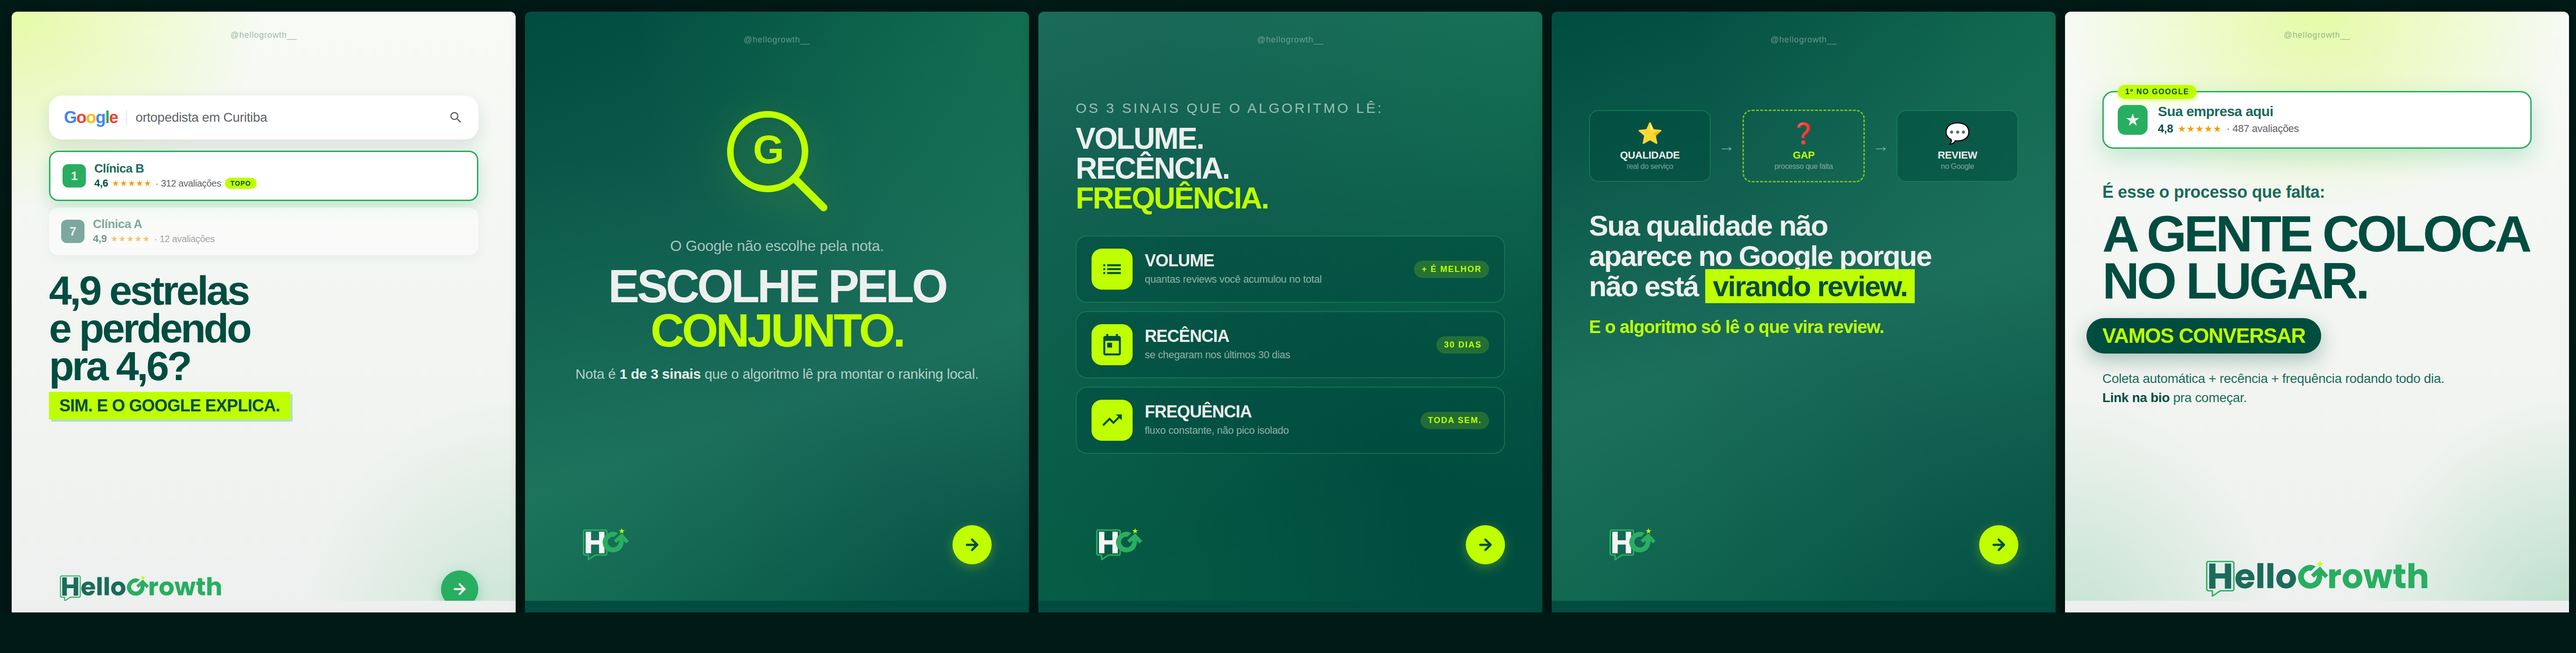
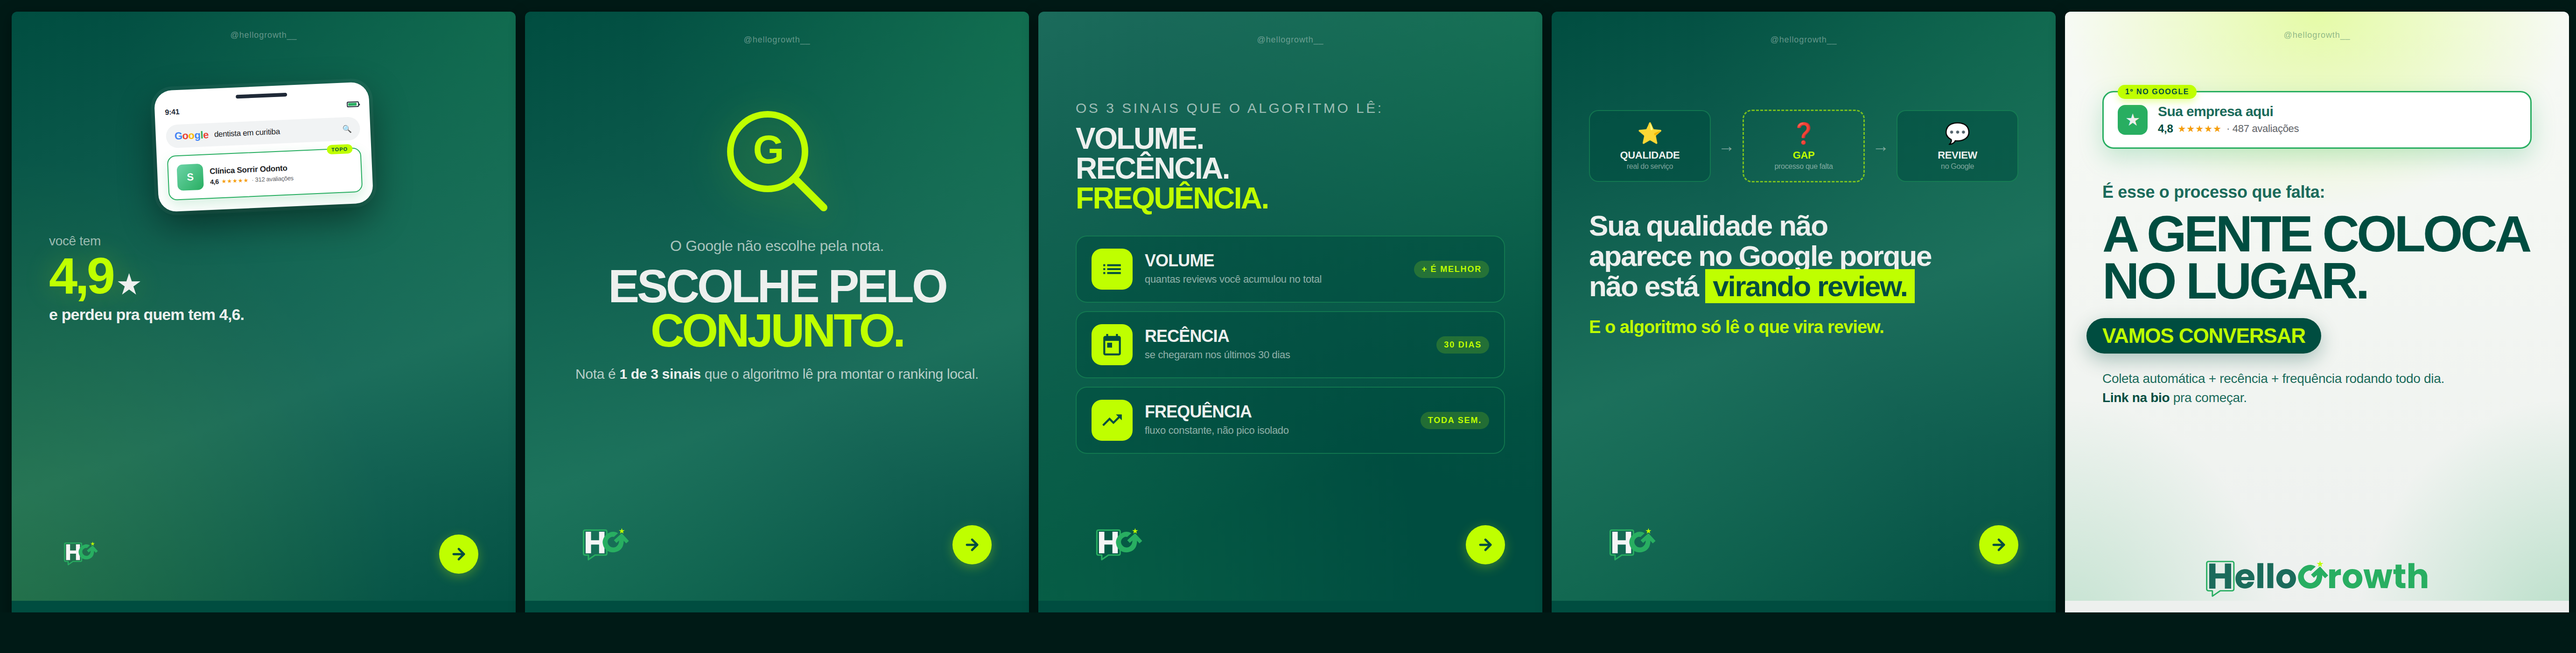
Nota Alta V3: cover redesigned with phone mockup, dentistry example
Switch the cover to a dark background and replace the busy two-card
ranking with a tilted phone mockup showing a single Google result
(Clínica Sorrir Odonto). Lead with a giant "4,9 ★" and "perdeu pra quem
tem 4,6" instead of the lime-pill pattern. Lift the footer so it never
touches the bottom edge.

https://claude.ai/code/session_01RXRUyw64HWp6pgoosUTsE4

Changed region(s): [[0.0, 0.0, 0.2181, 0.9521]]

diff --git a/squads/social-content/output/2026-06-05-nota-alta/slides-v2/slide-01.html b/squads/social-content/output/2026-06-05-nota-alta/slides-v2/slide-01.html
@@ -8,9 +8,9 @@
 * { margin: 0; padding: 0; box-sizing: border-box; }
 html, body {
   width: 1080px; height: 1350px;
-  background: #edf0ee;
+  background: #004d40;
   font-family: 'Inter', sans-serif;
-  color: #004d40;
+  color: #edf0ee;
   overflow: hidden;
   letter-spacing: -0.02em;
 }
@@ -18,173 +18,205 @@ html, body {
   width: 1080px; height: 1350px;
   position: relative;
   background:
-    radial-gradient(ellipse 900px 700px at top left, rgba(191,255,0,0.32) 0%, transparent 60%),
-    radial-gradient(ellipse 700px 800px at bottom right, rgba(40,174,97,0.18) 0%, transparent 65%),
-    linear-gradient(180deg, #f7faf5 0%, #edf0ee 100%);
+    radial-gradient(ellipse at top right, rgba(40,174,97,0.22) 0%, transparent 55%),
+    radial-gradient(ellipse at bottom left, rgba(191,255,0,0.10) 0%, transparent 55%),
+    linear-gradient(160deg, #004d40 0%, #1b6b5b 60%, #004d40 100%);
   padding: 80px 80px;
 }
 .handle {
   position: absolute; top: 40px; left: 50%; transform: translateX(-50%);
-  font-size: 18px; font-weight: 500; color: rgba(0,77,64,0.4);
+  font-size: 18px; font-weight: 500; color: rgba(237,240,238,0.4);
   letter-spacing: 0.05em;
 }
 
-/* Google search mockup */
-.google-search {
-  margin-top: 100px;
+/* Phone mockup */
+.phone-wrap {
+  margin: 80px auto 0;
+  width: 460px;
   background: #ffffff;
-  border-radius: 28px;
-  padding: 26px 32px;
-  display: flex; align-items: center; gap: 18px;
-  box-shadow: 0 14px 36px rgba(0,77,64,0.12);
+  border-radius: 38px;
+  padding: 24px 22px;
+  box-shadow:
+    0 30px 80px rgba(0,0,0,0.45),
+    0 0 0 8px rgba(255,255,255,0.05);
+  position: relative;
+  transform: rotate(-2.5deg);
 }
-.google-logo {
-  font-size: 36px; font-weight: 800; letter-spacing: -0.04em;
+.phone-notch {
+  position: absolute; top: 16px; left: 50%; transform: translateX(-50%);
+  width: 110px; height: 8px;
+  background: #1f2937; border-radius: 50px;
 }
-.google-logo .b { color: #4285F4; }
-.google-logo .r { color: #EA4335; }
-.google-logo .y { color: #FBBC04; }
-.google-logo .g { color: #34A853; }
-.search-input {
-  flex: 1;
-  font-size: 28px; font-weight: 500;
-  color: #5f6368;
-  border-left: 2px solid #e5e7eb;
-  padding-left: 18px;
+.phone-status {
+  display: flex; justify-content: space-between; align-items: center;
+  margin-top: 14px; margin-bottom: 18px;
+  font-size: 16px; font-weight: 700; color: #1f2937;
 }
-.search-icon { width: 32px; height: 32px; }
-.search-icon svg { width: 100%; height: 100%; fill: #5f6368; }
-
-/* GMB results */
-.gmb-results { margin-top: 24px; }
-.gmb-card {
-  background: #ffffff;
-  border-radius: 20px;
-  padding: 22px 26px;
-  margin-bottom: 14px;
-  display: flex; align-items: center; gap: 18px;
-  box-shadow: 0 6px 20px rgba(0,77,64,0.08);
+.battery {
+  display: inline-block;
+  width: 26px; height: 12px;
+  border: 2px solid #1f2937;
+  border-radius: 3px;
   position: relative;
 }
-.gmb-card.winner {
-  background: #ffffff;
-  border: 3px solid #28ae61;
-  box-shadow: 0 12px 32px rgba(40,174,97,0.25);
+.battery::before {
+  content: '';
+  position: absolute; right: -4px; top: 3px;
+  width: 2px; height: 4px;
+  background: #1f2937; border-radius: 1px;
 }
-.gmb-card.loser { opacity: 0.55; }
-.gmb-rank {
-  width: 50px; height: 50px;
-  background: #1b6b5b;
-  color: #edf0ee;
-  border-radius: 12px;
-  display: flex; align-items: center; justify-content: center;
-  font-size: 26px; font-weight: 900;
-}
-.gmb-card.winner .gmb-rank { background: #28ae61; }
-.gmb-info { flex: 1; }
-.gmb-name {
-  font-size: 26px; font-weight: 800;
-  color: #1b6b5b; line-height: 1; letter-spacing: -0.02em;
-}
-.gmb-meta {
-  display: flex; align-items: center; gap: 8px;
-  margin-top: 6px;
-  font-size: 20px; color: #5f6368; font-weight: 500;
-}
-.gmb-rating-num { font-weight: 800; color: #004d40; font-size: 22px; }
-.gmb-stars { color: #f59e0b; font-size: 18px; letter-spacing: 1px; }
-.tag-topo {
-  background: #bfff00;
-  color: #004d40;
-  font-size: 14px; font-weight: 800;
-  padding: 4px 12px; border-radius: 50px;
-  text-transform: uppercase; letter-spacing: 0.08em;
+.battery::after {
+  content: '';
+  position: absolute; left: 1px; top: 1px;
+  width: 18px; height: 6px;
+  background: #28ae61;
+  border-radius: 1px;
 }
 
-/* Headline */
-.headline-block { margin-top: 36px; }
-.headline-mega {
-  font-size: 88px; font-weight: 900;
-  color: #004d40; line-height: 0.92;
-  letter-spacing: -0.05em; margin-bottom: 14px;
+/* Google search bar */
+.google-bar {
+  display: flex; align-items: center; gap: 12px;
+  background: #f1f3f4;
+  border-radius: 50px;
+  padding: 12px 18px;
+  margin-bottom: 16px;
 }
-.pilula {
-  display: inline-block;
+.g-logo {
+  font-size: 22px; font-weight: 700; letter-spacing: -0.02em;
+}
+.g-logo .b { color: #4285F4; }
+.g-logo .r { color: #EA4335; }
+.g-logo .y { color: #FBBC04; }
+.g-logo .g { color: #34A853; }
+.search-text {
+  flex: 1;
+  font-size: 17px; font-weight: 500;
+  color: #202124;
+}
+.search-mic { color: #4285F4; font-weight: 700; }
+
+/* GMB result card (single) */
+.gmb-single {
+  background: #ffffff;
+  border: 2px solid #28ae61;
+  border-radius: 18px;
+  padding: 18px 18px;
+  display: flex; align-items: center; gap: 14px;
+  box-shadow: 0 12px 28px rgba(40,174,97,0.18);
+  position: relative;
+}
+.tag-1st {
+  position: absolute; top: -10px; right: 16px;
   background: #bfff00;
-  font-size: 36px; font-weight: 800;
-  color: #004d40; line-height: 1.1;
-  padding: 10px 22px;
-  letter-spacing: -0.02em;
+  color: #004d40;
+  font-size: 11px; font-weight: 800;
+  padding: 4px 10px; border-radius: 50px;
+  text-transform: uppercase; letter-spacing: 0.1em;
+}
+.gmb-photo {
+  width: 56px; height: 56px; min-width: 56px;
+  background: linear-gradient(135deg, #6dd4a8, #28ae61);
+  border-radius: 12px;
+  display: flex; align-items: center; justify-content: center;
+  color: white; font-weight: 900; font-size: 22px;
+}
+.gmb-content { flex: 1; }
+.gmb-name-sm {
+  font-size: 17px; font-weight: 800;
+  color: #202124; letter-spacing: -0.015em;
+  line-height: 1;
+}
+.gmb-meta-sm {
+  display: flex; align-items: center; gap: 6px;
+  margin-top: 6px;
+  font-size: 13px; color: #5f6368; font-weight: 500;
+}
+.gmb-rate-sm { font-weight: 800; color: #202124; font-size: 14px; }
+.gmb-stars-sm { color: #f59e0b; letter-spacing: 1px; font-size: 12px; }
+
+/* Headline below phone */
+.headline-block {
+  margin-top: 56px;
+  display: flex; flex-direction: column; align-items: flex-start;
+}
+.kicker {
+  font-size: 28px; font-weight: 500;
+  color: rgba(237,240,238,0.65);
+  margin-bottom: 8px;
+}
+.headline-big {
+  font-size: 110px; font-weight: 900;
+  color: #bfff00; line-height: 0.9;
+  letter-spacing: -0.05em;
+  text-shadow: 0 0 60px rgba(191,255,0,0.25);
+  margin-bottom: 14px;
   text-transform: uppercase;
-  box-shadow: 5px 5px 0 rgba(40,174,97,0.30);
+}
+.headline-big .small { font-size: 56px; color: #edf0ee; }
+.gut {
+  font-size: 34px; font-weight: 700;
+  color: #edf0ee; line-height: 1.2;
+  letter-spacing: -0.025em;
 }
 
 .bottom-row {
-  position: absolute; bottom: 70px; left: 80px; right: 80px;
+  position: absolute; bottom: 130px; left: 80px; right: 80px;
   display: flex; align-items: center; justify-content: space-between;
 }
-.logo-full img { height: 80px; }
+.logo-symbol-only img { height: 110px; }
 .arrow-next {
-  width: 80px; height: 80px;
-  background: #28ae61;
+  width: 84px; height: 84px;
+  background: #bfff00;
   border-radius: 50%;
   display: flex; align-items: center; justify-content: center;
-  box-shadow: 0 8px 28px rgba(40,174,97,0.40);
+  box-shadow: 0 6px 24px rgba(191,255,0,0.30);
 }
-.arrow-next svg { width: 36px; height: 36px; }
+.arrow-next svg { width: 38px; height: 38px; }
 </style>
 </head>
 <body>
 <div class="card">
   <div class="handle">@hellogrowth__</div>
 
-  <div class="google-search">
-    <div class="google-logo">
-      <span class="b">G</span><span class="r">o</span><span class="y">o</span><span class="b">g</span><span class="g">l</span><span class="r">e</span>
+  <div class="phone-wrap">
+    <div class="phone-notch"></div>
+    <div class="phone-status">
+      <span>9:41</span>
+      <span class="battery"></span>
     </div>
-    <div class="search-input">ortopedista em Curitiba</div>
-    <div class="search-icon">
-      <svg viewBox="0 0 24 24"><path d="M15.5 14h-.79l-.28-.27A6.471 6.471 0 0 0 16 9.5 6.5 6.5 0 1 0 9.5 16c1.61 0 3.09-.59 4.23-1.57l.27.28v.79l5 4.99L20.49 19l-4.99-5zm-6 0C7.01 14 5 11.99 5 9.5S7.01 5 9.5 5 14 7.01 14 9.5 11.99 14 9.5 14z"/></svg>
-    </div>
-  </div>
-
-  <div class="gmb-results">
-    <div class="gmb-card winner">
-      <div class="gmb-rank">1</div>
-      <div class="gmb-info">
-        <div class="gmb-name">Clínica B</div>
-        <div class="gmb-meta">
-          <span class="gmb-rating-num">4,6</span>
-          <span class="gmb-stars">★★★★★</span>
-          <span>· 312 avaliações</span>
-          <span class="tag-topo">topo</span>
-        </div>
+    <div class="google-bar">
+      <div class="g-logo">
+        <span class="b">G</span><span class="r">o</span><span class="y">o</span><span class="b">g</span><span class="g">l</span><span class="r">e</span>
       </div>
+      <div class="search-text">dentista em curitiba</div>
+      <span class="search-mic">🔍</span>
     </div>
-    <div class="gmb-card loser">
-      <div class="gmb-rank">7</div>
-      <div class="gmb-info">
-        <div class="gmb-name">Clínica A</div>
-        <div class="gmb-meta">
-          <span class="gmb-rating-num">4,9</span>
-          <span class="gmb-stars">★★★★★</span>
-          <span>· 12 avaliações</span>
+    <div class="gmb-single">
+      <div class="tag-1st">topo</div>
+      <div class="gmb-photo">S</div>
+      <div class="gmb-content">
+        <div class="gmb-name-sm">Clínica Sorrir Odonto</div>
+        <div class="gmb-meta-sm">
+          <span class="gmb-rate-sm">4,6</span>
+          <span class="gmb-stars-sm">★★★★★</span>
+          <span>· 312 avaliações</span>
         </div>
       </div>
     </div>
   </div>
 
   <div class="headline-block">
-    <div class="headline-mega">4,9 estrelas<br>e perdendo<br>pra 4,6?</div>
-    <div class="pilula">Sim. E o Google explica.</div>
+    <div class="kicker">você tem</div>
+    <div class="headline-big">4,9<span class="small"> ★</span></div>
+    <div class="gut">e perdeu pra quem tem 4,6.</div>
   </div>
 
   <div class="bottom-row">
-    <div class="logo-full">
-      <img src="assets/logo-full.svg" alt="HelloGrowth">
+    <div class="logo-symbol-only">
+      <img src="assets/logo-symbol-light.svg" alt="HG">
     </div>
     <div class="arrow-next">
-      <svg viewBox="0 0 24 24" fill="none" stroke="#edf0ee" stroke-width="3" stroke-linecap="round" stroke-linejoin="round">
+      <svg viewBox="0 0 24 24" fill="none" stroke="#004d40" stroke-width="3" stroke-linecap="round" stroke-linejoin="round">
         <line x1="5" y1="12" x2="19" y2="12"/>
         <polyline points="12 5 19 12 12 19"/>
       </svg>
